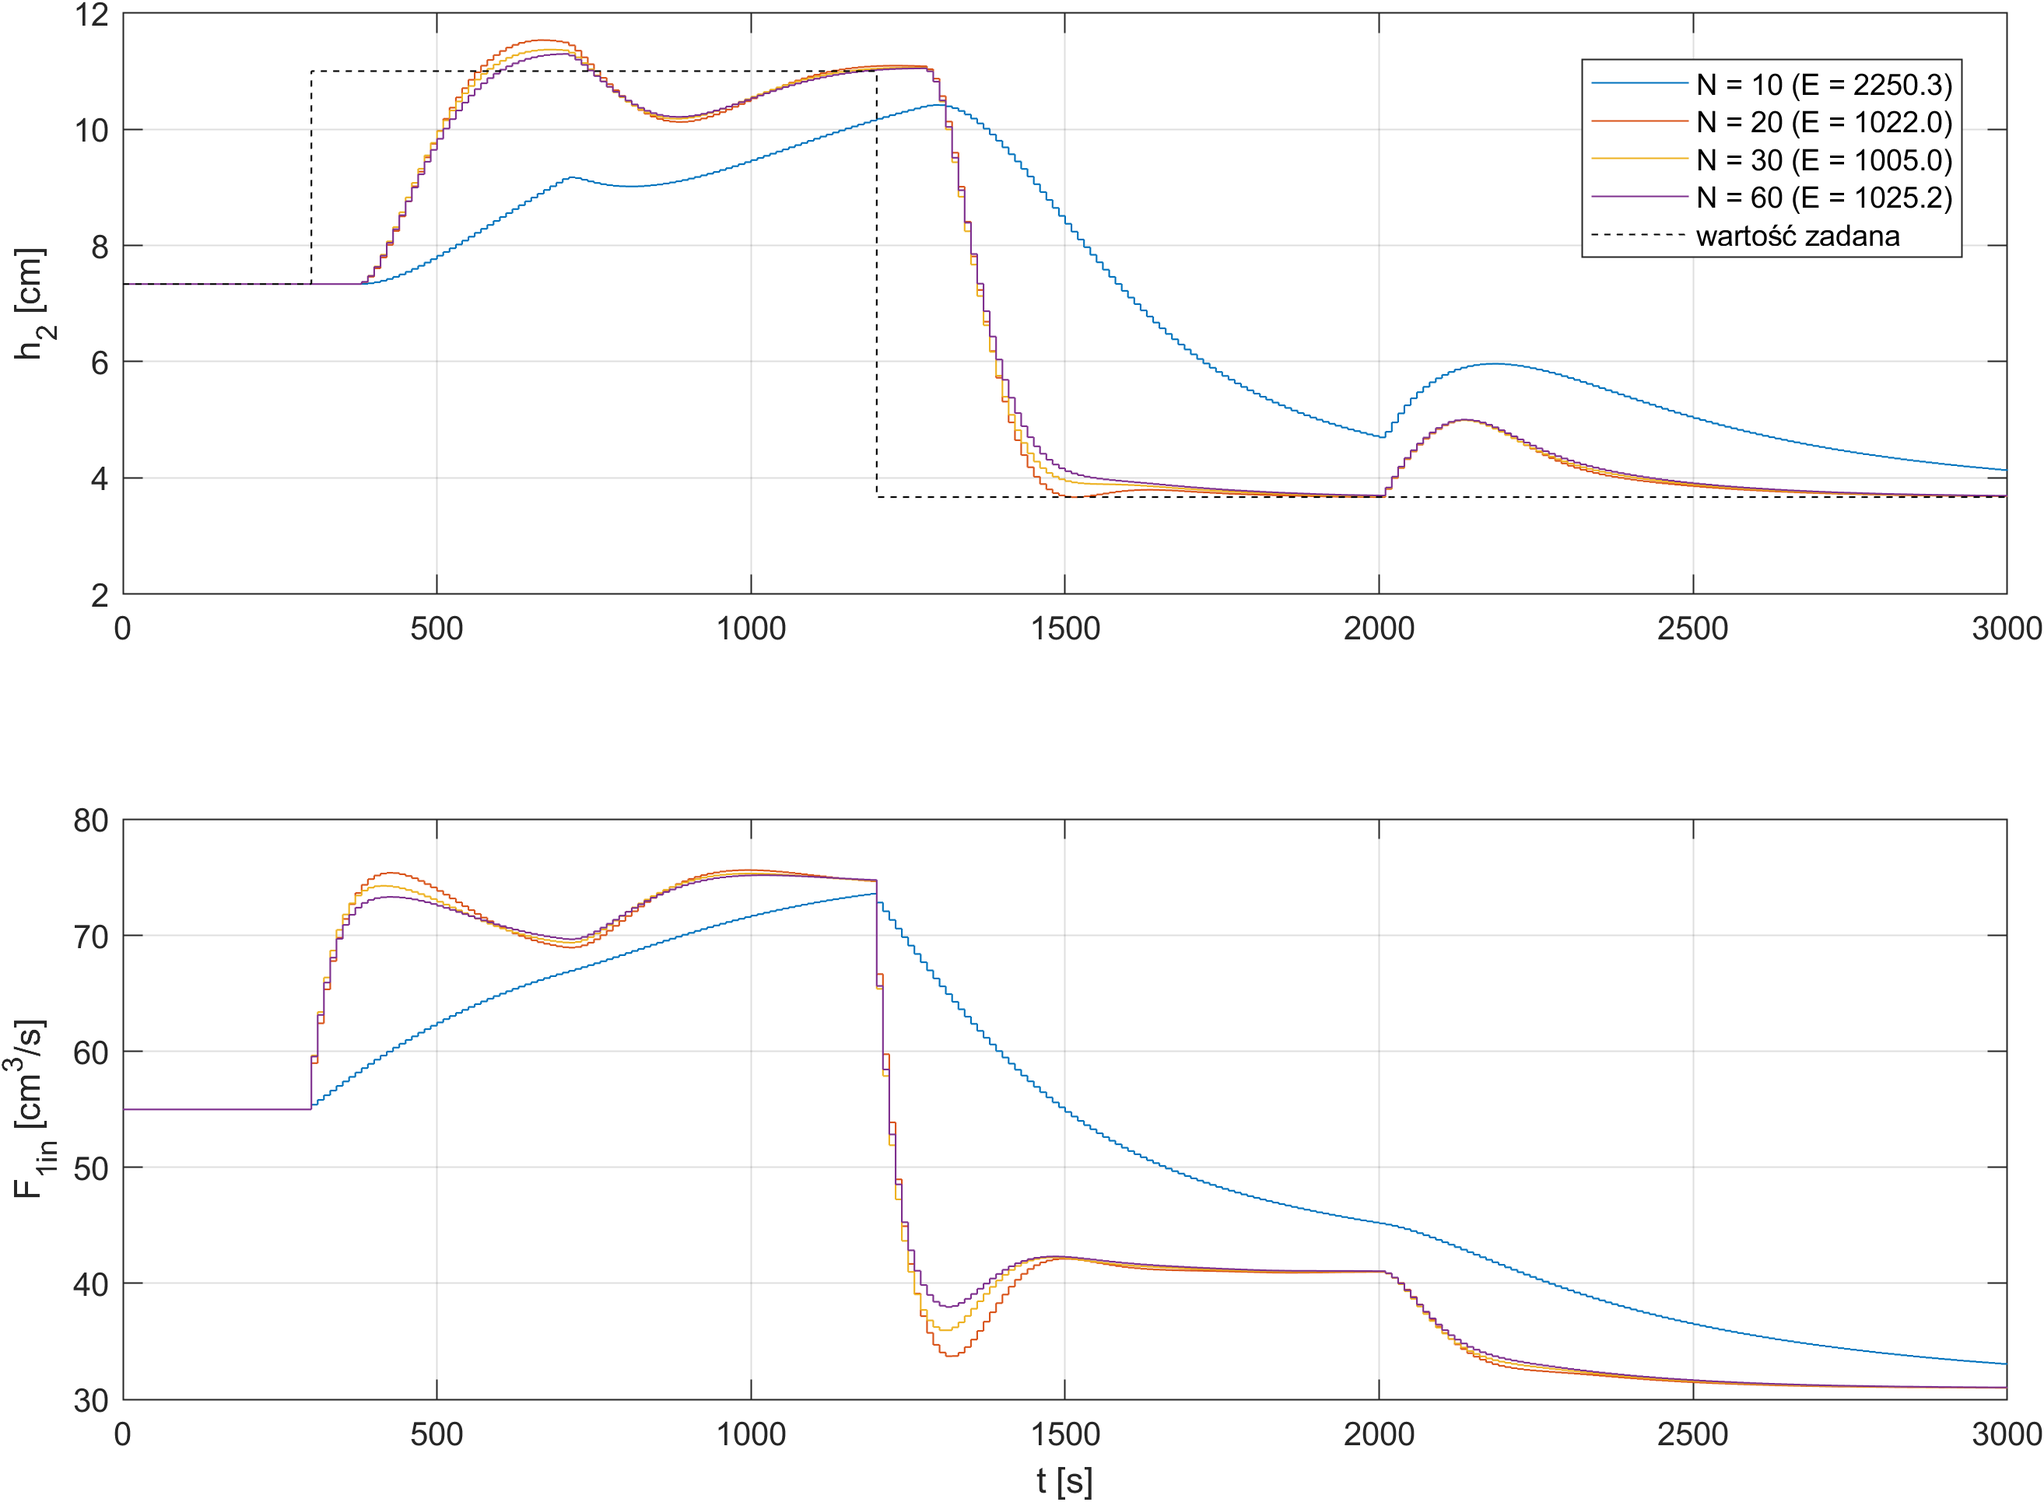
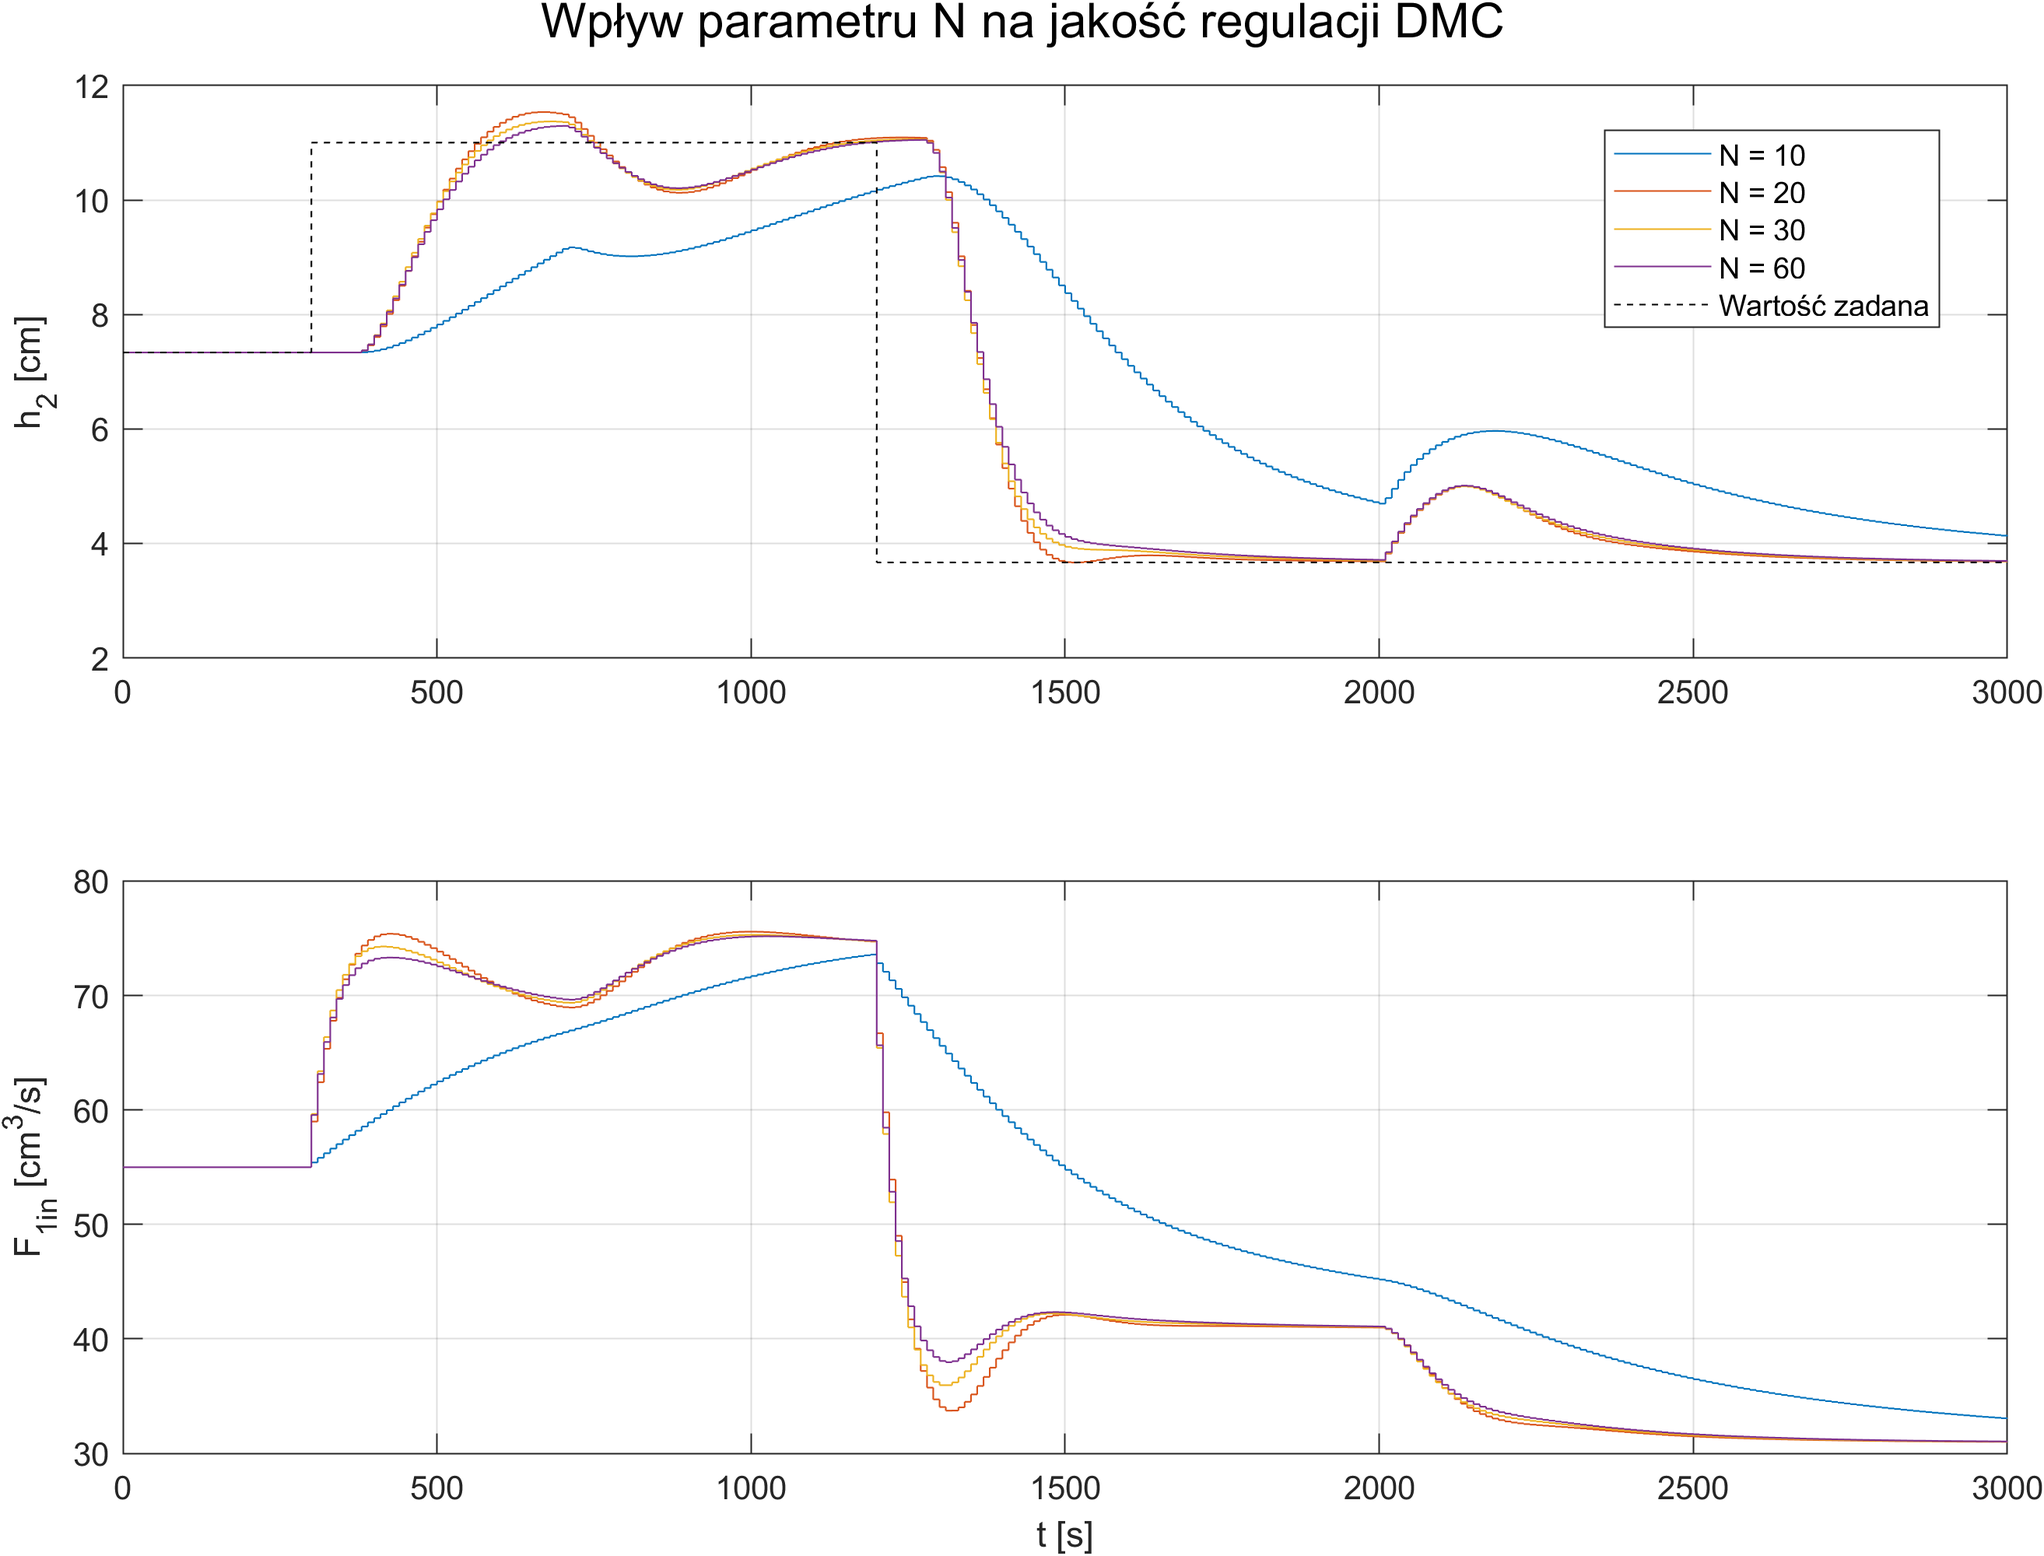
raport cooking - some code should be repaired

diff --git a/projekt1/zad1_analityczny_dmc.m b/projekt1/zad1_analityczny_dmc.m
@@ -8,20 +8,17 @@ clear; clc; close all;
 % Folder na wykresy
 folder = fullfile(fileparts(mfilename('fullpath')), 'zad1_plots');
 
-%% Parametry regulatora DMC
-Tp_reg      = 10;
-nastawy.D      = 60;
-nastawy.N      = 30;
-nastawy.Nu     = 5;
-nastawy.lambda = 0.7;
-limit_u     = [0 110];
-limit_du    = [-10 10];
+Tp_reg   = 10;
+limit_u  = [0 110];
+limit_du = [-10 10];
 
-%% Parametry do badania wpływu nastaw
+%% Nastawy bazowe i parametry do badania wpływu nastaw (D dobierane z odpowiedzi skokowej)
+nastawy_bazowe.N      = 30;
+nastawy_bazowe.Nu     = 5;
+nastawy_bazowe.lambda = 0.7;
 lambda_lista = [0.1 0.7 2 5];
 N_lista = [10 20 30 60];
 Nu_lista = [1 2 5 10];
-D_lista = [30 45 60 90];
 
 %% Dyskretyzacja
 Ts    = 0.5;
@@ -32,39 +29,39 @@ t     = (0:N_sim)*Ts;
 co    = round(Tp_reg/Ts);
 ip    = 1:co:N_sim+1;
 
-%% Model liniowy w punkcie pracy i jego odpowiedź skokowa
+%% Model liniowy w punkcie pracy oraz scenariusz testowy
 model_zlinearyzowany = zad1_obiekt.linearyzacja(model, h2_0);
-D_max = max([nastawy.D D_lista]);
-s = zad1_dmc.odp_skokowa(model_zlinearyzowany, D_max, Ts, co, d);
 
-% Wzmocnienie statyczne modelu liniowego
-K_stat = zad1_obiekt.wzmocnienie(model_zlinearyzowany);
-fprintf('Odpowiedź skokowa po D = %d krokach: %.2f%% wartości ustalonej\n', nastawy.D, 100*s(nastawy.D)/K_stat);
-
-f = zad1_wykresy.nowy();
-stairs((1:D_max)*Tp_reg, s); hold on;
-yline(K_stat, '--');
-xline(nastawy.D*Tp_reg, ':'); hold off;
-grid on; ylabel('s'); xlabel('t [s]');
-legend('Odpowiedź skokowa - model liniowy', 'wartość ustalona', sprintf('D = %d', nastawy.D), 'Location', 'best');
-zad1_wykresy.zapisz(f, fullfile(folder, 'zad1_dmc_odp_skokowa.png'));
-
-%% Scenariusz testowy
 yzad = zad1_scenariusze.przebieg_yzad(t, h2_0);
 FDc  = zad1_scenariusze.przebieg_FD(t, FD_0);
 scenariusz = zad1_dmc.utworz_scenariusz(model, yzad, FDc, Ts, co, d, F1_0, h1_0, h2_0, limit_u, limit_du);
 
-%% Regulacja DMC obiektu nieliniowego
-regulator = zad1_dmc.projekt(model_zlinearyzowany, nastawy, Ts, co, d);
-[h2c, u, E] = zad1_dmc.symulacja(regulator, scenariusz);
-fprintf('Wskaźnik jakości regulacji DMC: %.2f\n', E);
+%% Odpowiedź skokowa modelu liniowego - podstawa doboru horyzontu dynamiki D
+D_max = 90;   % liczba próbek odpowiedzi skokowej na wykresie
+s = zad1_dmc.odp_skokowa(model_zlinearyzowany, D_max, Ts, co, d);
 
-zad1_wykresy.regulacja(t, ip, yzad, FDc, {h2c}, {u}, {'wyjście h_2'}, {'sterowanie F_{1in}'}, fullfile(folder, 'zad1_dmc_regulacja.png'));
+% Wzmocnienie statyczne modelu liniowego
+K_stat = zad1_obiekt.wzmocnienie(model_zlinearyzowany);
+
+fprintf('Wzmocnienie statyczne zlinearyzowanego modelu: %.4f\n', K_stat);
+
+f = zad1_wykresy.nowy();
+stairs(1:D_max, s); hold on;
+yline(K_stat, '--');
+hold off;
+grid on; ylabel('s'); xlabel('k');
+title('Odpowiedź skokowa modelu liniowego', 'FontWeight', 'normal')
+legend('Odpowiedź skokowa s', 'Wartość ustalona', 'Location', 'best');
+zad1_wykresy.zapisz(f, fullfile(folder, 'zad1_dmc_odp_skokowa.png'));
+
+% Horyzont dynamiki D dobrany na podstawie wykresu odpowiedzi skokowej
+D = 80;
+nastawy_bazowe.D = D;
 
 %% Wpływ nastaw na jakość regulacji - zmiana jednego parametru, reszta bez zmian
-pola     = {'lambda', 'N', 'Nu', 'D'};
-etykiety = {'\lambda', 'N', 'N_u', 'D'};
-listy    = {lambda_lista, N_lista, Nu_lista, D_lista};
+pola     = {'N', 'Nu', 'lambda'};
+etykiety = {'N', 'N_u', '\lambda'};
+listy    = {N_lista, Nu_lista, lambda_lista};
 
 for ib = 1:numel(pola)
     wart = listy{ib};
@@ -72,13 +69,25 @@ for ib = 1:numel(pola)
     ub   = cell(1, numel(wart));
     E_b  = zeros(size(wart));
     for iw = 1:numel(wart)
-        nastawy_b = nastawy;
+        nastawy_b = nastawy_bazowe;
         nastawy_b.(pola{ib}) = wart(iw);
         regulator_b = zad1_dmc.projekt(model_zlinearyzowany, nastawy_b, Ts, co, d);
         [h2b{iw}, ub{iw}, E_b(iw)] = zad1_dmc.symulacja(regulator_b, scenariusz);
     end
-    etyk = arrayfun(@(w, e) sprintf('%s = %g (E = %.1f)', etykiety{ib}, w, e), wart, E_b, 'UniformOutput', false);
-    zad1_wykresy.regulacja(t, ip, yzad, [], h2b, ub, etyk, {}, fullfile(folder, sprintf('zad1_dmc_strojenie_%s.png', pola{ib})));
+    etyk = arrayfun(@(w) sprintf('%s = %g', etykiety{ib}, w), wart, 'UniformOutput', false);
+    zad1_wykresy.regulacja(t, ip, yzad, [], h2b, ub, etyk, {}, fullfile(folder, sprintf('zad1_dmc_strojenie_%s.png', pola{ib})), sprintf('Wpływ parametru %s na jakość regulacji DMC', etykiety{ib}));
     fprintf('\nWpływ %s na wskaźnik jakości E:\n', pola{ib});
     fprintf('%10g  E = %.2f\n', [wart; E_b]);
 end
+
+%% Wybrane najlepsze parametry regulatora DMC i regulacja obiektu nieliniowego
+nastawy.D      = D;
+nastawy.N      = 30;
+nastawy.Nu     = 5;
+nastawy.lambda = 0.1;
+
+regulator = zad1_dmc.projekt(model_zlinearyzowany, nastawy, Ts, co, d);
+[h2c, u, E] = zad1_dmc.symulacja(regulator, scenariusz);
+fprintf('Wskaźnik jakości regulacji DMC: %.2f\n', E);
+
+zad1_wykresy.regulacja(t, ip, yzad, FDc, {h2c}, {u}, {'Wyjście h_2'}, {'Sterowanie F_{1in}'}, fullfile(folder, 'zad1_dmc_regulacja.png'), 'Regulacja DMC obiektu nieliniowego');

diff --git a/projekt1/zad2_modele_rozmyte.m b/projekt1/zad2_modele_rozmyte.m
@@ -52,13 +52,13 @@ skoki_FD = [-0.5 0.5];                       % względem FD_0
 [F1_s, FD_s, opis_s] = zad1_scenariusze.skoki_pojedyncze(t, F1_0, FD_0, skoki_F1, skoki_FD, 100);
 nS = numel(F1_s);
 
-% b) skoki F1in w dwóch miejscach, wzrost i spadek - do wykresów (jak w zadaniu 1)
-F1_dw = zad1_scenariusze.wzrost_spadek(t, F1_0);
-FD_dw = FD_0*ones(size(t));
+% b) przebiegi sterowania F1in i zakłócenia FD takie same jak w zadaniu 1 - do wykresów
+F1c = zad1_scenariusze.przebieg_F1(t, F1_0);
+FDc = zad1_scenariusze.przebieg_FD(t, FD_0);
 
 % Odpowiedzi modelu nieliniowego - punkt odniesienia
 h2n_s = cellfun(@(F1, FD) zad1_obiekt.sym_nieliniowy(model, F1, FD, Ts, d, F1_0, h1_0, h2_0), F1_s, FD_s, 'UniformOutput', false);
-h2n_dw = cellfun(@(F1) zad1_obiekt.sym_nieliniowy(model, F1, FD_dw, Ts, d, F1_0, h1_0, h2_0), F1_dw, 'UniformOutput', false);
+h2n_c = zad1_obiekt.sym_nieliniowy(model, F1c, FDc, Ts, d, F1_0, h1_0, h2_0);
 
 %% Porównanie modeli rozmytych z modelem liniowym i nieliniowym
 nM = nL + 1;
@@ -81,11 +81,24 @@ for is = 1:nS
 end
 fprintf('%-10s', 'suma'); fprintf('%12.2f', sum(E, 1)); fprintf('\n');
 
-h2_dw = cell(1, 2);
-for ik = 1:2
-    h2_dw{ik} = [h2n_dw(ik), cellfun(@(modele_lok, mf) zad2_rozmyte.sym_ts(modele_lok, mf, F1_dw{ik}, FD_dw, Ts, d, F1_0, h1_0, h2_0), modele_lok_lista, mf_all, 'UniformOutput', false)];
-end
-zad1_wykresy.wzrost_spadek(t, F1_dw, F1_0, h2_dw, [{'nieliniowy'}, nazwy], [{'k', '--'}, repmat({''}, 1, nL)], fullfile(folder, 'zad2_porownanie_modeli.png'));
+h2_c = [{h2n_c}, cellfun(@(modele_lok, mf) zad2_rozmyte.sym_ts(modele_lok, mf, F1c, FDc, Ts, d, F1_0, h1_0, h2_0), modele_lok_lista, mf_all, 'UniformOutput', false)];
+E_c = cellfun(@(h2m) sum((h2m - h2n_c).^2), h2_c(2:end));
+
+fprintf('\nBłąd modeli względem modelu nieliniowego dla przebiegów z zadania 1\n');
+fprintf('%-10s', ''); fprintf('%12s', nazwy{:}); fprintf('\n');
+fprintf('%-10s', 'E'); fprintf('%12.2f', E_c); fprintf('\n');
+
+% h2_c = {nieliniowy, liniowy, TS dla kolejnych L z L_lista}
+nazwy_ts = arrayfun(@(L) sprintf('Model rozmyty (L = %d)', L), L_lista, 'UniformOutput', false);
+
+% Wszystkie modele rozmyte
+zad1_wykresy.modele(t, F1c, FDc, h2_c(3:end), nazwy_ts, repmat({''}, 1, nL), ...
+    fullfile(folder, 'zad2_porownanie_modeli_rozmytych.png'), 'Porównanie modeli rozmytych o różnej liczbie modeli lokalnych');
+
+% Model nieliniowy, liniowy i wybrany model rozmyty
+i_wyb = 2 + find(L_lista == L_wyb);
+zad1_wykresy.modele(t, F1c, FDc, h2_c([1 2 i_wyb]), [{'Model nieliniowy', 'Model liniowy'}, nazwy_ts(L_lista == L_wyb)], {'k', '--', ''}, ...
+    fullfile(folder, 'zad2_porownanie_lin_nielin_rozmyty.png'), 'Porównanie modelu rozmytego z modelem liniowym i nieliniowym');
 
 %% Poprawa wybranego modelu przez zmianę kształtu funkcji przynależności
 mf_wyb = mf_L{L_lista == L_wyb};
@@ -117,13 +130,13 @@ zad2_rozmyte.wykres_mf(hh, {mf_wyb, mf_popr}, {['Przed: ' zad2_rozmyte.opis(mf_w
 % Odpowiedzi modelu przed i po poprawie
 modele_lok_wyb  = zad2_rozmyte.modele_lokalne(model, mf_wyb.c);
 modele_lok_popr = zad2_rozmyte.modele_lokalne(model, mf_popr.c);
-for ik = 1:2
-    h2_dw{ik} = {h2n_dw{ik}, ...
-        zad2_rozmyte.sym_ts(model_zlinearyzowany,  mf_lin,  F1_dw{ik}, FD_dw, Ts, d, F1_0, h1_0, h2_0), ...
-        zad2_rozmyte.sym_ts(modele_lok_wyb,  mf_wyb,  F1_dw{ik}, FD_dw, Ts, d, F1_0, h1_0, h2_0), ...
-        zad2_rozmyte.sym_ts(modele_lok_popr, mf_popr, F1_dw{ik}, FD_dw, Ts, d, F1_0, h1_0, h2_0)};
-end
-zad1_wykresy.wzrost_spadek(t, F1_dw, F1_0, h2_dw, {'nieliniowy', 'liniowy', sprintf('TS%d przed poprawą', L_wyb), sprintf('TS%d po poprawie', L_wyb)}, {'k', '--', '', ''}, fullfile(folder, 'zad2_model_przed_po_poprawie.png'));
+h2_c = {h2n_c, ...
+    zad2_rozmyte.sym_ts(modele_lok_wyb,  mf_wyb,  F1c, FDc, Ts, d, F1_0, h1_0, h2_0), ...
+    zad2_rozmyte.sym_ts(modele_lok_popr, mf_popr, F1c, FDc, Ts, d, F1_0, h1_0, h2_0)};
+nazwy_wyk = {'Model nieliniowy', sprintf('Model rozmyty (L = %d) przed poprawą', L_wyb), sprintf('Model rozmyty (L = %d) po poprawie', L_wyb)};
+jasnoniebieski = [0.3010 0.7450 0.9330];
+zad1_wykresy.modele(t, F1c, FDc, h2_c, nazwy_wyk, {'k', '', jasnoniebieski}, fullfile(folder, 'zad2_model_przed_po_poprawie.png'), ...
+    'Model rozmyty przed i po poprawie funkcji przynależności');
 
 %% Zapis funkcji przynależności wybranego modelu
 save(plik_modelu, 'mf_wyb', 'mf_popr', 'h2_min', 'h2_max');

diff --git a/projekt1/zad1_wykresy.m b/projekt1/zad1_wykresy.m
@@ -15,8 +15,8 @@ classdef zad1_wykresy
             close(f);
         end
 
-        % Przebiegi regulacji
-        function regulacja(t, ip, yzad, FD, h2, u, nazwy_h2, nazwy_u, plik)
+        % Przebiegi regulacji; tytul (opcjonalny) - wspólny tytuł obu paneli
+        function regulacja(t, ip, yzad, FD, h2, u, nazwy_h2, nazwy_u, plik, tytul)
             f = zad1_wykresy.nowy(1000, 700);
             subplot(2,1,1); hold on; box on;
             for i = 1:numel(h2)
@@ -24,7 +24,7 @@ classdef zad1_wykresy
             end
             stairs(t(ip), yzad(ip), 'k--'); hold off;
             grid on; ylabel('h_2 [cm]');
-            legend([nazwy_h2, {'wartość zadana'}], 'Location', 'best');
+            legend([nazwy_h2, {'Wartość zadana'}], 'Location', 'best');
 
             subplot(2,1,2); hold on; box on;
             for i = 1:numel(u)
@@ -35,9 +35,42 @@ classdef zad1_wykresy
             else
                 stairs(t(ip), FD(ip), 'k--');
                 ylabel('F [cm^3/s]');
-                legend([nazwy_u, {'zakłócenie F_D'}], 'Location', 'best');
+                legend([nazwy_u, {'Zakłócenie F_D'}], 'Location', 'best');
             end
             hold off; grid on; xlabel('t [s]');
+            if nargin > 9 && ~isempty(tytul)
+                sgtitle(tytul);
+            end
+            zad1_wykresy.zapisz(f, plik);
+        end
+
+        % Porównanie odpowiedzi modeli: h2 (góra) oraz wejścia F1in i FD (dół).
+        % style{i} - styl linii ('' = domyślny, wektor RGB = kolor), tytul (opcjonalny) - wspólny tytuł obu paneli
+        function modele(t, F1in, FD, h2, nazwy, style, plik, tytul)
+            f = zad1_wykresy.nowy(1000, 700);
+            subplot(2,1,1);
+            ax = gca;
+            ax.ColorOrder(3,:) = [0.4660 0.6740 0.1880];   % zielony zamiast słabo widocznego żółtego
+            hold on; box on;
+            for i = 1:numel(h2)
+                if isempty(style{i})
+                    plot(t, h2{i});
+                elseif isnumeric(style{i})
+                    plot(t, h2{i}, 'Color', style{i});
+                else
+                    plot(t, h2{i}, style{i});
+                end
+            end
+            hold off; grid on; ylabel('h_2 [cm]');
+            legend(nazwy, 'Location', 'best');
+
+            subplot(2,1,2); box on;
+            stairs(t, F1in); hold on; stairs(t, FD); hold off;
+            grid on; ylabel('F [cm^3/s]'); xlabel('t [s]');
+            legend('F_{1in}', 'F_D', 'Location', 'best');
+            if nargin > 7 && ~isempty(tytul)
+                sgtitle(tytul);
+            end
             zad1_wykresy.zapisz(f, plik);
         end
 

diff --git a/projekt1/zad2_dmc_rozmyty.m b/projekt1/zad2_dmc_rozmyty.m
@@ -21,10 +21,10 @@ limit_u = [0 110];
 limit_du = [-10 10];
 
 % Konwencjonalny DMC - nastawy jak w zadaniu 1
-konw.D = 60; konw.N = 30; konw.Nu = 5; konw.lambda = 0.7;
+konw.D = 80; konw.N = 30; konw.Nu = 5; konw.lambda = 0.1;
 
 % Rozmyty DMC - te same N, Nu, lambda; dłuższe D, bo przy wysokim h2 obiekt jest wolniejszy
-rozm.D = 100; rozm.N = 30; rozm.Nu = 5; rozm.lambda = 0.7;
+rozm.D = 100; rozm.N = 30; rozm.Nu = 5; rozm.lambda = 0.1;
 
 % Początkowe funkcje przynależności regulatora takie same jak w modelu obiektu
 mf_start = dane.mf_popr;
@@ -71,8 +71,8 @@ stairs((1:rozm.D)*Tp_reg, regulator_start.s); grid on; ylabel('s'); xlabel('t [s
 legend(arrayfun(@(c) sprintf('model lokalny h_2 = %.2f cm', c), mf_start.c, 'UniformOutput', false), 'Location', 'best');
 zad1_wykresy.zapisz(f, fullfile(folder, 'zad2_dmc_odp_skokowe_lokalne.png'));
 
-nazwy = {sprintf('DMC konwencjonalny (E = %.1f)', E_k), sprintf('DMC rozmyty (E = %.1f)', E_r)};
-zad1_wykresy.regulacja(t, ip, yzad, FDc, {h2_k, h2_r}, {u_k, u_r}, nazwy, nazwy, fullfile(folder, 'zad2_dmc_konw_vs_rozmyty.png'));
+nazwy = {'DMC konwencjonalny', 'DMC rozmyty'};
+zad1_wykresy.regulacja(t, ip, yzad, FDc, {h2_k, h2_r}, {u_k, u_r}, nazwy, nazwy, fullfile(folder, 'zad2_dmc_konw_vs_rozmyty.png'), 'Porównanie regulatora DMC konwencjonalnego i rozmytego');
 
 %% Strojenie funkcji przynależności regulatora
 warianty = zad2_rozmyte.warianty(numel(mf_start.c), g_lista, szer_lista, dane.h2_min, dane.h2_max);
@@ -103,5 +103,5 @@ fprintf('DMC konwencjonalny:                                        E = %.2f\n',
 hh = linspace(dane.h2_min - 1, dane.h2_max + 1, 500);
 zad2_rozmyte.wykres_mf(hh, {mf_start, mf_stroj}, {['Przed: ' zad2_rozmyte.opis(mf_start)], ['Po: ' zad2_rozmyte.opis(mf_stroj)]}, [1 2], fullfile(folder, 'zad2_dmc_funkcje_przynaleznosci.png'));
 
-nazwy = {sprintf('DMC konwencjonalny (E = %.1f)', E_k), sprintf('DMC rozmyty przed strojeniem (E = %.1f)', E_r), sprintf('DMC rozmyty po strojeniu (E = %.1f)', E_s)};
-zad1_wykresy.regulacja(t, ip, yzad, FDc, {h2_k, h2_r, h2_s}, {u_k, u_r, u_s}, nazwy, nazwy, fullfile(folder, 'zad2_dmc_przed_po_strojeniu.png'));
+nazwy = {'DMC konwencjonalny', 'DMC rozmyty przed strojeniem', 'DMC rozmyty po strojeniu'};
+zad1_wykresy.regulacja(t, ip, yzad, FDc, {h2_k, h2_r, h2_s}, {u_k, u_r, u_s}, nazwy, nazwy, fullfile(folder, 'zad2_dmc_przed_po_strojeniu.png'), 'Regulator DMC rozmyty przed i po strojeniu funkcji przynależności');

diff --git a/projekt1/zad2_rozmyte.m b/projekt1/zad2_rozmyte.m
@@ -117,7 +117,10 @@ classdef zad2_rozmyte
             for i = 1:numel(mf_lista)
                 subplot(uklad(1), uklad(2), i);
                 plot(hh, zad2_rozmyte.wartosci(hh, mf_lista{i})); grid on;
-                xlabel('h_2 [cm]'); ylabel('\mu'); title(tytuly{i});
+                xlabel('h_2 [cm]'); ylabel('\mu'); title(tytuly{i}, 'FontWeight', 'normal', 'FontSize', 9);
+            end
+            if isequal(uklad, [2 2])
+                sgtitle('Funkcje przynależności dla różnej liczby modeli lokalnych', 'FontWeight', 'normal');
             end
             zad1_wykresy.zapisz(f, plik);
         end
